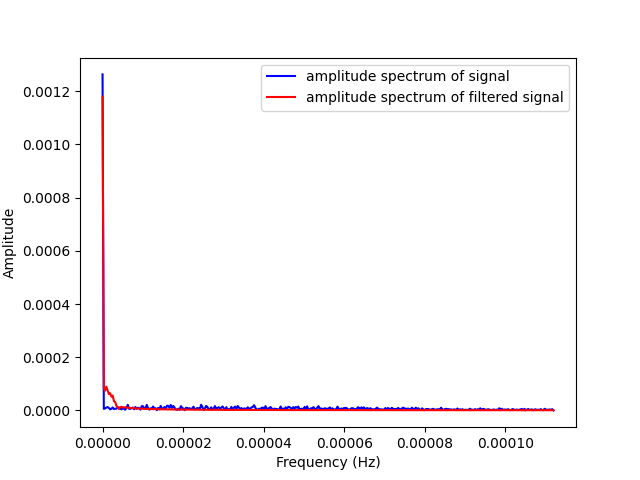
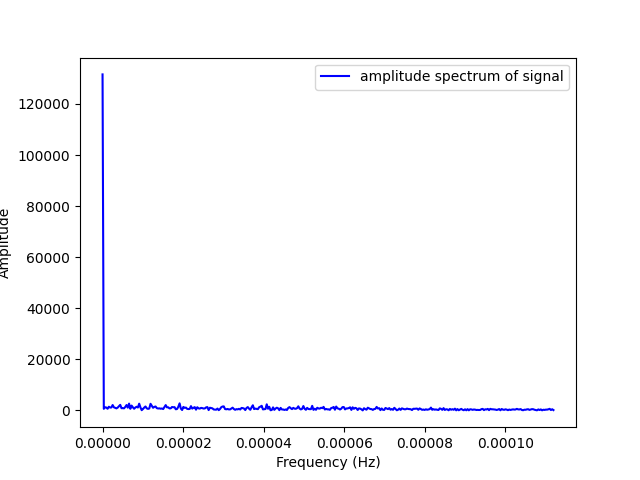
working on plotting amplitude spectrum

diff --git a/SourceCode/lowpass.py b/SourceCode/lowpass.py
@@ -26,17 +26,51 @@ def runLowpass(cutoffFrequency, filterOrder):
 def plotAmplitudeSpectrum(signal,filteredSignal,channelNumber,numSamples, signalFreq):
     signal = np.transpose(signal);
     filteredSignal = np.transpose(filteredSignal);
-    yf = rfft(signal[:,channelNumber]);
+    #print(signal.shape, file=sys.stderr)
+    normalized_signal = np.int16((signal / signal.max()) * 32767)
+    normalized_filtered_signal = np.int16((filteredSignal / filteredSignal.max()) * 32767)
+    #print(normalized_tone.shape, file=sys.stderr)
+    yf1 = rfft(normalized_signal[:,channelNumber]);
     xf = rfftfreq(numSamples, signalFreq);
-    yf1 = rfft(filteredSignal[:,channelNumber]);
-    plt.plot(xf, np.abs(yf), 'b-', label='amplitude spectrum of signal')
-    plt.plot(xf, np.abs(yf1), 'r-', label='amplitude spectrum of filtered signal')
+    yf2 = rfft(normalized_filtered_signal[:,channelNumber]);
+
+    plt.plot(xf, np.abs(yf1), 'b-', label='amplitude spectrum of signal')
     plt.legend();
     plt.xlabel("Frequency (Hz)");
     plt.ylabel("Amplitude");
     plt.savefig('figures/amplitudeSpectrum.png')
     plt.close()
 
+    plt.plot(xf, np.abs(yf2), 'r-', label='amplitude spectrum of filtered signal')
+    plt.legend();
+    plt.xlabel("Frequency (Hz)");
+    plt.ylabel("Amplitude");
+    plt.savefig('figures/amplitudeSpectrumOfFilteredSignal.png')
+    plt.close()
+    
+    plt.plot(xf, np.abs(yf1), 'b-', label='amplitude spectrum of signal')
+    plt.yscale("log");
+    plt.legend();
+    plt.xlabel("Frequency (Hz)");
+    plt.ylabel("Log(Amplitude)");
+    plt.savefig('figures/logAmplitudeSpectrum.png')
+    plt.close()
+
+    plt.plot(xf, np.abs(yf2), 'r-', label='amplitude spectrum of filtered signal')
+    plt.yscale("log");
+    plt.legend();
+    plt.xlabel("Frequency (Hz)");
+    plt.ylabel("Log(Amplitude)");
+    plt.savefig('figures/logAmplitudeSpectrumOfFilteredSignal.png')
+    plt.close()
+
+    plt.magnitude_spectrum(signal[:,channelNumber],Fs=1/signalFreq)
+    plt.savefig('figures/test.png')
+    plt.close()
+
+    plt.magnitude_spectrum(filteredSignal[:,channelNumber],Fs=1/signalFreq)
+    plt.savefig('figures/test1.png')
+    plt.close()
 
 
 

diff --git a/Examples/lowpassEx.py b/Examples/lowpassEx.py
@@ -20,6 +20,4 @@ endTime = 0.15;
 #Plot lowpass filter on channelNumber
 lowpass.plotLowpass(time,signal,filtered_signal,channelNumber,startTime,endTime);
 lowpass.plotAmplitudeSpectrum(signal, filtered_signal, channelNumber, num_samples, sample_freq);
-#(signal_rfft, filtered_signal_rfft) = lowpass.testFunc(signal_on_channel,filtered_signal_on_channel);
-#lowpass.plotAmplitudeSpectrum(time,signal_rfft, filtered_signal_rfft,preAmp, postAmp, channelNumber, startTime, endTime);
 
